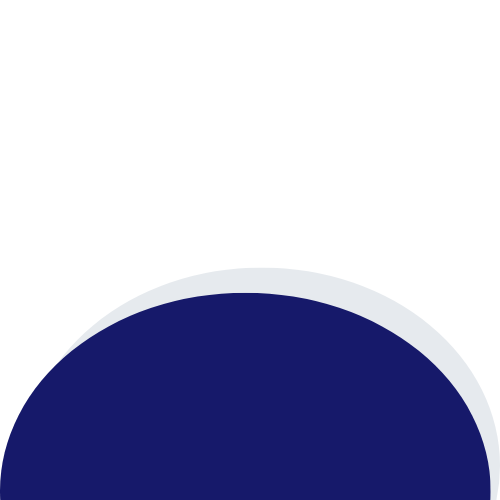
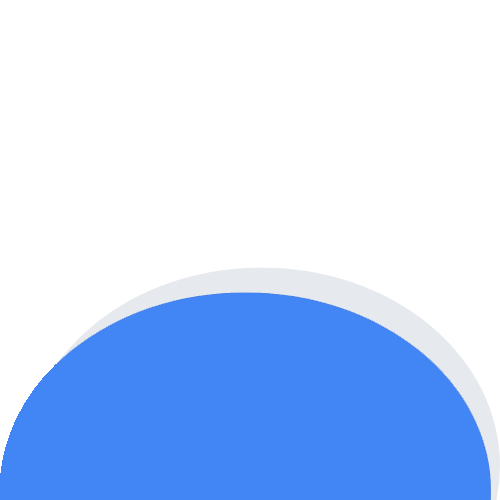
Google login button.

diff --git a/src/Account/Login.jsx b/src/Account/Login.jsx
@@ -72,7 +72,8 @@ const Login = () => {
       <View style={{ flex: 1, justifyContent: 'space-between' }}>
         <CircleTop />
         <View style={{ marginHorizontal: 25 }}>
-          <Text category='h5' style={{ marginBottom: 15 }}>
+
+          <Text category='h5' style={{ marginBottom: 15, textAlign: 'center', alignSelf: 'center' }}>
             {'Iniciar Sesion'}
           </Text>
 
@@ -84,7 +85,7 @@ const Login = () => {
             render={({ field: { onChange, value } }) => (
               <Input
                 label={'Usuario'}
-                style={{ marginBottom: 10 }}
+                style={tailwind`mb-4 rounded-lg`}
                 placeholder='nombre de usuario'
                 value={value}
                 onChangeText={onChange}
@@ -101,9 +102,10 @@ const Login = () => {
             }}
             render={({ field: { onChange, value } }) => (
               <Input
-                label={'Usuario'}
+                label={'Contraseña'}
                 disabled={loading}
-                placeholder='nombre de usuario'
+                style={tailwind`mb-4 rounded-lg`}
+                placeholder='contraseña'
                 value={value}
                 onChangeText={onChange}
                 secureTextEntry={true}
@@ -113,26 +115,26 @@ const Login = () => {
             name='password'
           />
 
-          {loading == true ? (
+          {loading ? (
             <View style={tailwind`self-center mt-5`}>
-              <Spinner status='warning' />
+              <Spinner status='warning' size='giant' />
             </View>
           ) : (
             <View>
               <Button
                 disabled={loading}
                 onPress={handleSubmit(onSubmit)}
-                style={tailwind`mt-4`}
+                style={tailwind`mt-4 rounded-lg`}
               >
                 Iniciar Sesión
               </Button>
               <Button
                 disabled={loading}
                 onPress={onGoogleSubmit}
-                style={tailwind`mt-4`}
+                style={[tailwind`mt-4 rounded-lg`, { backgroundColor: '#4285F4', borderColor: '#4285F4' }]}
                 accessoryLeft={GoogleIcon}
               >
-                Iniciar con Google
+                <Text style={{ color: 'white' }}>Iniciar con Google</Text>
               </Button>
             </View>
           )}
@@ -143,15 +145,12 @@ const Login = () => {
         <View style={tailwind`ml-5`}>
           <Image
             source={require('../../assets/circulo-login-down.png')}
-            style={tailwind`${
-              widthScreen.width > 800 ? 'w-86 h-86' : 'h-56 w-56'
-            }`}
+            style={tailwind`${widthScreen.width > 800 ? 'w-86 h-86' : 'h-56 w-56'}`}
           />
         </View>
       </View>
     </KeyBoardAvoidContainer>
   );
-
 };
 
 export default Login;
